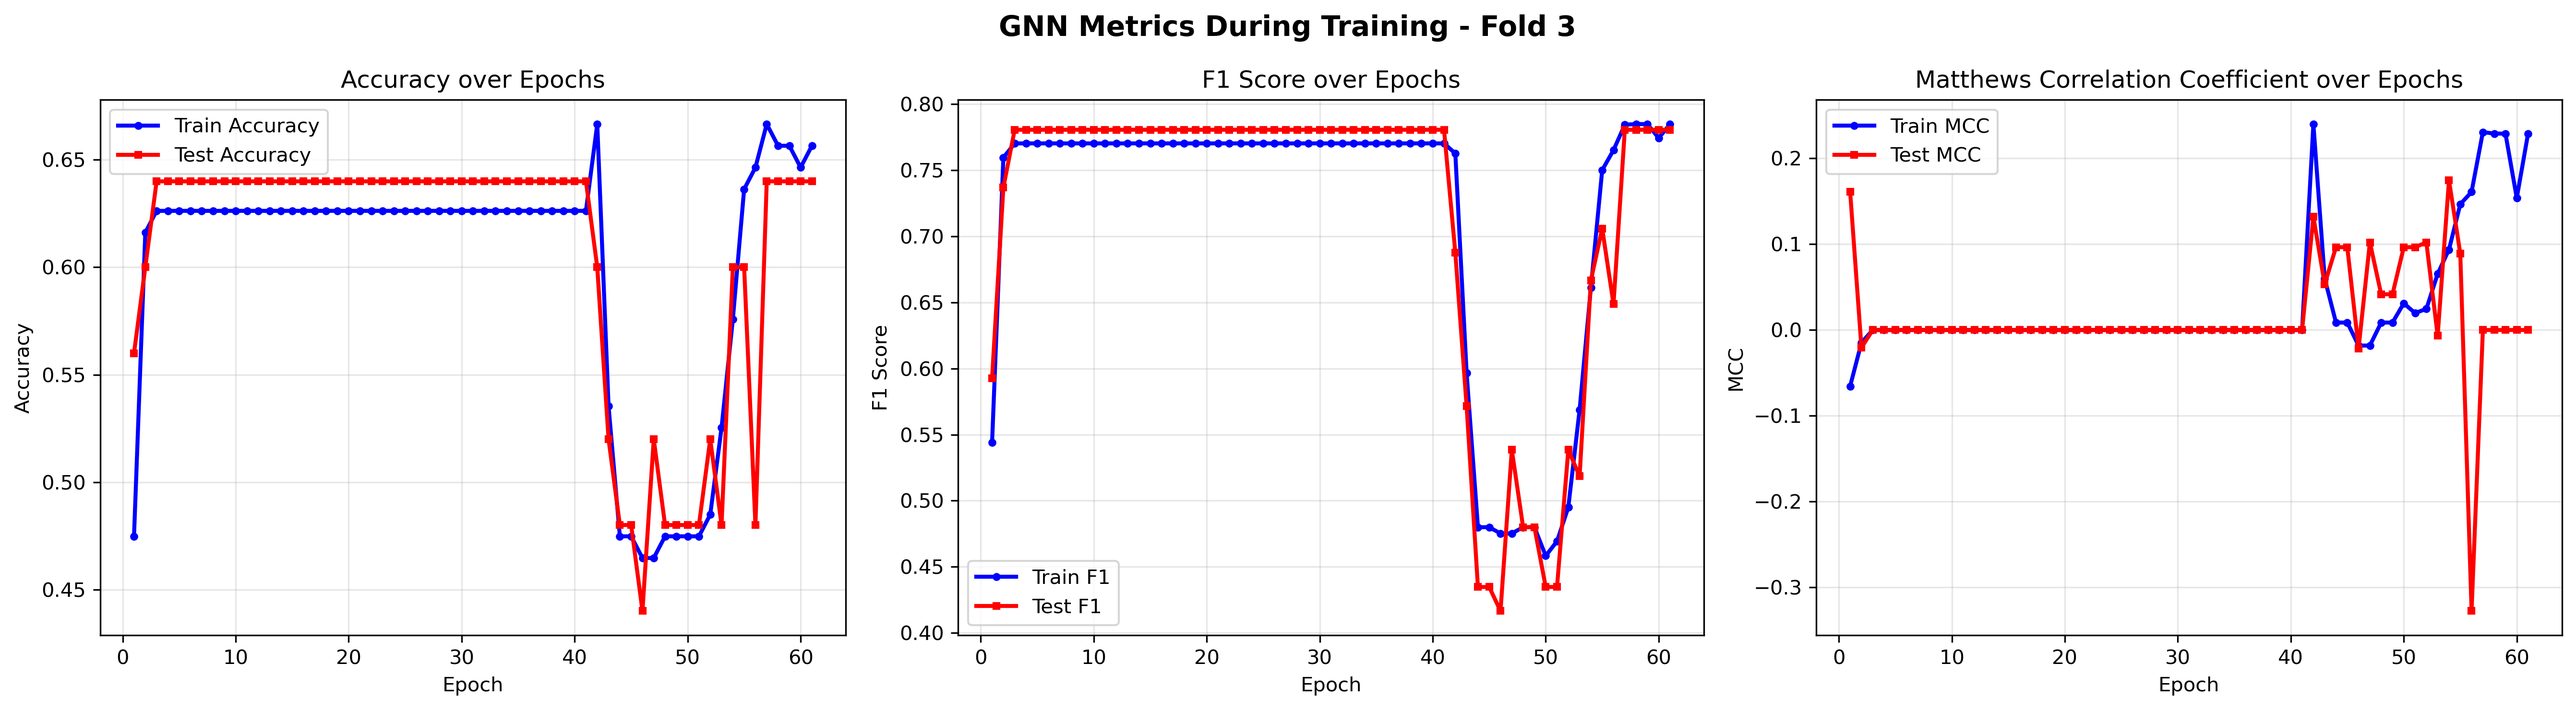
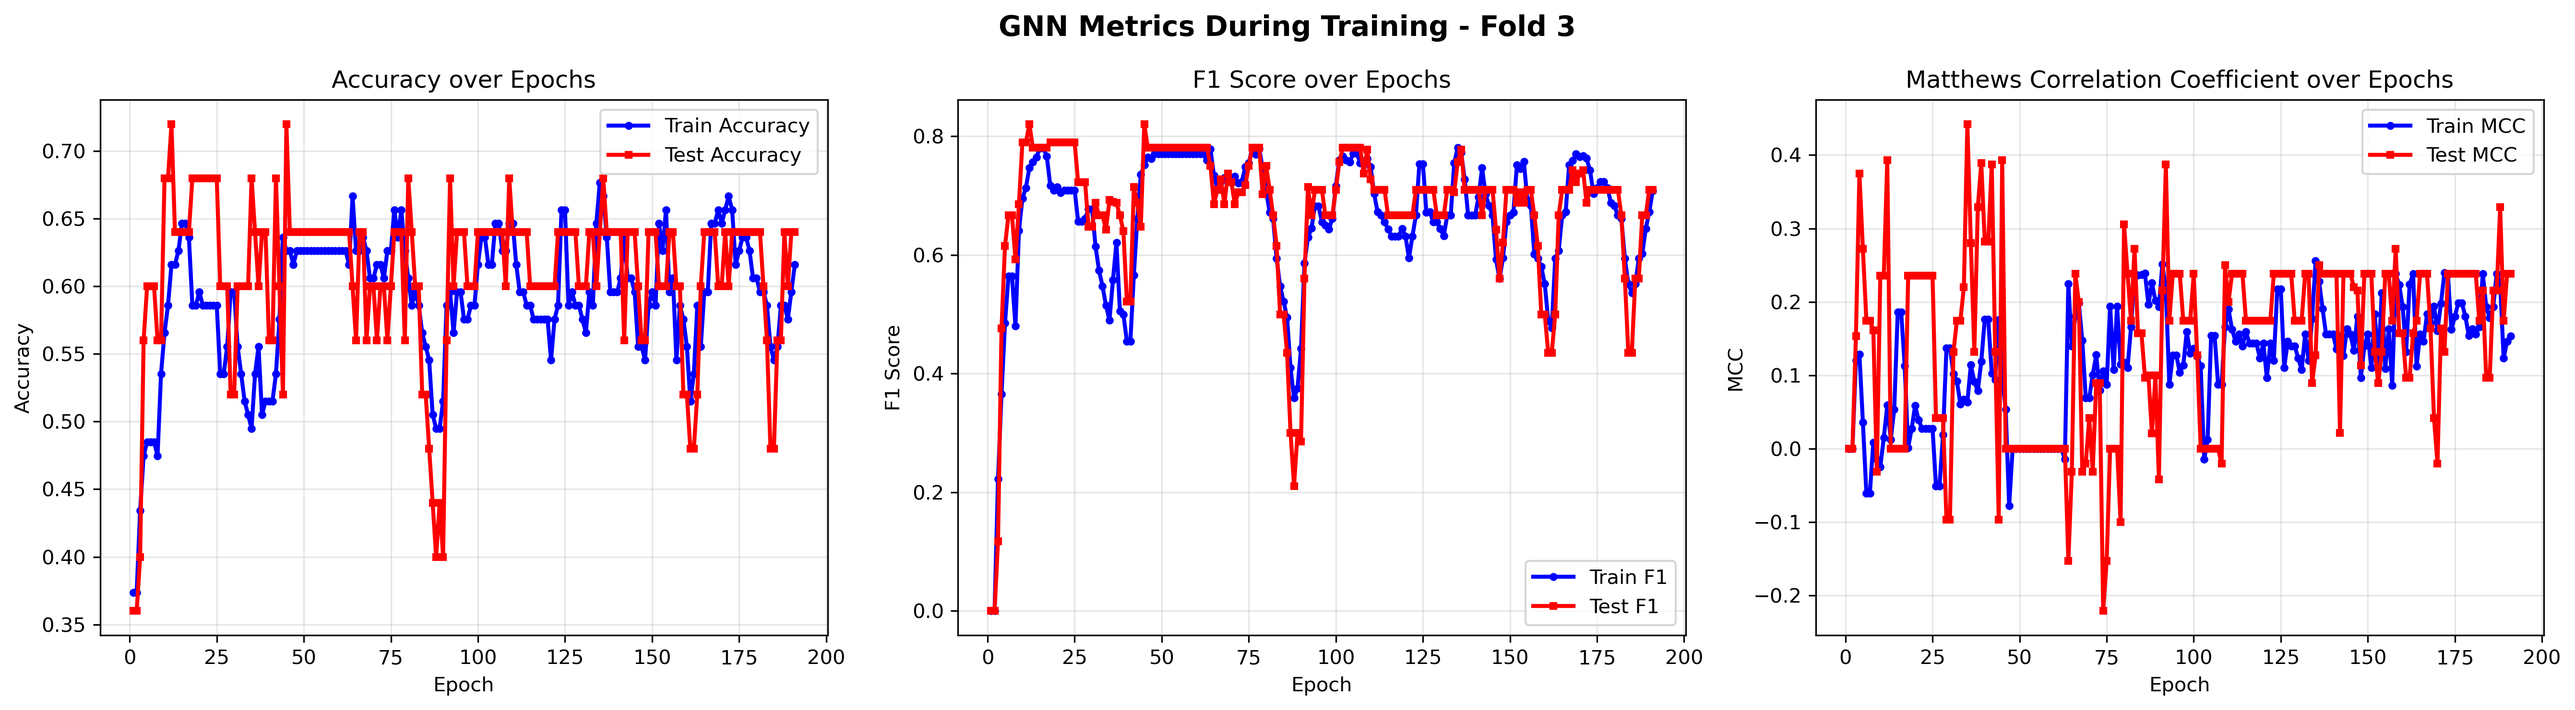
removing unnecesary code from the gnn.py

diff --git a/08-gnn.py b/08-gnn.py
@@ -282,8 +282,11 @@ def get_graph_hot_encoding_continuity(row, cols):
             if len(weights) == 0:
                 continue
             is_consecutive = 1.0 if abs(i - j) == 1 else 0.0
+            is_consecutive_vec = {1,0}
+            if is_consecutive == 0.0:
+                is_consecutive_vec = {0,1}
             avg_weight = sum(weights) / len(weights)
-            edge_attr.append([avg_weight, is_consecutive])
+            edge_attr.append(weights+[is_consecutive]) #[avg_weight, is_consecutive],
             edge_index_list.append([i, j])
 
         edge_attr = torch.tensor(edge_attr, dtype=torch.float32)
@@ -300,7 +303,7 @@ def get_graph_hot_encoding_continuity(row, cols):
             torch.tensor([d[n] for n in row['seq']], dtype=torch.long), 
             num_classes=num_classes
         ).to(torch.float32)
-
+        
         y = torch.tensor([row['is_positive']], dtype=torch.int64)
 
         graph = Data(edge_index=edge_index_symmetric, edge_attr=edge_attr_symmetric, y=y, x=x)
@@ -355,7 +358,12 @@ def train():
          out = model(data.x, data.edge_index, edge_weight, data.batch)  # Perform a single forward pass.
          #out= model(data.x, data.edge_index, data.edge_weight, data.batch)
         #  print(out)
+        #  print("??????????????????????????????")
+        #  print(data.x)
+        #  print(data.edge_index)
+        #  print(data.edge_weight)
         #  print(data.y)
+        #  print("??????????????????????????????")
          loss = criterion(out, data.y)  # Compute the loss.
         # print(loss)
          loss.backward()  # Derive gradients.
@@ -469,77 +477,6 @@ def plot_model_metrics_during_training(epoch_data, model_name, fold_number=None,
 
 
 
-
-
-
-
-
-
-
-# #MAIN
-# data = pd.read_csv("./database/database_C1'.csv", sep=',', index_col=0)
-# data= data.map(parse_point)
-# data['class'] = 1
-# data
-
-# #stems
-# d1 = pd.read_csv("./stems_database_C1'.csv", sep=',', index_col=0)
-# # for column in d1.columns[:-1]:
-# #     if d1[column].apply(lambda x: str(x).replace('.', '', 1).isdigit()).all():
-# #         d1[column] = pd.to_numeric(d1[column])
-#     #d1[column] = d1[column].apply(lambda x: np.array(list(map(float, x.split(',')))))
-# d1=d1.map(parse_point)
-# d1 = d1.reset_index(drop=True)
-
-# #hairpins
-# d2 = pd.read_csv("./hairpins_database_C1'.csv", index_col=0, sep=',')
-# # for column in d2.columns[:-1]:
-# #     if d2[column].apply(lambda x: str(x).replace('.', '', 1).isdigit()).all():
-# #         d2[column] = pd.to_numeric(d2[column])
-# #     d2[column] = d2[column].apply(lambda x: np.array(list(map(float, x.split(',')))))
-# d2=d2.map(parse_point)
-# d2 = d2.reset_index(drop=True)
-# d2
-
-# #internal loops
-# d3 = pd.read_csv("./loops_database_C1'.csv", sep=',', index_col=0)
-# # for column in d3.columns[:-1]:
-# #     if d3[column].apply(lambda x: str(x).replace('.', '', 1).isdigit()).all():
-# #         d3[column] = pd.to_numeric(d3[column])
-#     #d3[column] = d3[column].apply(lambda x: np.array(list(map(float, x.split(',')))))
-# d3=d3.map(parse_point)
-# d3 = d3.reset_index(drop=True)
-# d3
-
-# #ends
-# d4 = pd.read_csv("./ends_database_C1'.csv", sep=',', index_col=0)
-# # for column in d4.columns[:-1]:
-# #     if d4[column].apply(lambda x: str(x).replace('.', '', 1).isdigit()).all():
-# #         d4[column] = pd.to_numeric(d4[column])
-# #     d4[column] = d4[column].apply(lambda x: np.array(list(map(float, x.split(',')))))
-# d4=d4.map(parse_point)
-# d4 = d4.reset_index(drop=True)
-# d4
-
-# #mix
-# d5 = pd.read_csv("./mix_database_C1'.csv", sep=',', index_col=0)
-# # for column in d5.columns[:-1]:
-# #     if d5[column].apply(lambda x: str(x).replace('.', '', 1).isdigit()).all():
-# #         d5[column] = pd.to_numeric(d5[column])
-#     #d5[column] = d5[column].apply(lambda x: np.array(list(map(float, x.split(',')))))
-# d5=d5.map(parse_point)
-# d5 = d5.reset_index(drop=True)
-# d5
-
-# #mix_with_seqs_assigned
-# d5v2 = pd.read_csv("./mix_database_C1_v2'.csv", sep=',', index_col=0)
-# # for column in d5v2.columns[:-1]:
-# #     if d5v2[column].apply(lambda x: str(x).replace('.', '', 1).isdigit()).all():
-# #        d5v2[column] = pd.to_numeric(d5v2[column])
-#     #d5v2[column] = d5v2[column].apply(lambda x: np.array(list(map(float, x.split(',')))))
-# d5v2=d5v2.map(parse_point)
-# d5v2 = d5v2.reset_index(drop=True)
-# d5v2
 dpos = pd.read_csv("positve.csv", sep=',', index_col=None)#, index_col=0)
 
     
@@ -558,50 +495,6 @@ data_full = pd.concat([dneg, dpos])
 import csv
 seqs = []
 
-# with open("./database/database_C1'_seqs.csv", 'r') as csvfile:
-#     csvreader = csv.reader(csvfile)
-#     for row in csvreader:
-#         seqs.append(row[0])
-
-# with open("./stems_database_C1'_seqs.csv", 'r') as csvfile:
-#     csvreader = csv.reader(csvfile)
-#     for row in csvreader:
-#         seqs.append(row[0])
-
-# with open("./hairpins_database_C1'_seqs.csv", 'r') as csvfile:
-#     csvreader = csv.reader(csvfile)
-#     for row in csvreader:
-#         seqs.append(row[0])
-
-# with open("./loops_database_C1'_seqs.csv", 'r') as csvfile:
-#     csvreader = csv.reader(csvfile)
-#     for row in csvreader:
-#         seqs.append(row[0])
-
-# with open("./ends_database_C1'_seqs.csv", 'r') as csvfile:
-#     csvreader = csv.reader(csvfile)
-#     for row in csvreader:
-#         seqs.append(row[0])
-
-# with open("./mix_database_C1'_seqs_v2.csv", 'r') as csvfile:
-#     csvreader = csv.reader(csvfile)
-#     for row in csvreader:
-#         if len(seqs) == data_full.shape[0]:
-#             break
-#         seqs.append(row[0])
-# with open("positve_seq.csv", 'r') as csvfile:
-#     csvreader = csv.reader(csvfile)
-#     for row in csvreader:
-#         if len(seqs) == data_full.shape[0]:
-#             break
-#         seqs.append(row[0])
-# with open("negative_seq.csv", 'r') as csvfile:
-#     csvreader = csv.reader(csvfile)
-#     for row in csvreader:
-#         if len(seqs) == data_full.shape[0]:
-#             break
-#         seqs.append(row[0])        
-# Use shape[0] as maximum allowed
 max_len = data_full.shape[0]
 
 read_sequences("positve_seq.csv", max_len)
@@ -611,88 +504,13 @@ data_full['seq'] = seqs
 #print("DATA FULL WITH SEQS:")
 #print(data_full)
 
-
-
-
-# planar_angles_full = []
-# cols =[]
-# def is_bad(cell):
-#     return isinstance(cell, str) and (',' in cell or cell.startswith('['))
-
-# bad_cells = data_full.map(is_bad)
-# print("Bad cells:\n", bad_cells.any())  # Shows which columns have bad entries
-# print(data_full.map(lambda x: x.shape if isinstance(x, np.ndarray) else None))
-
-# for row in data_full.iloc[:, :-1].values:
-#     tmp = []
-#     for i in range(len(row) - 2):
-#         for j in range(i + 1, len(row) - 1):
-#             for k in range(j + 1, len(row)):
-#                 print(f'{row[i]} ]]] {row[j]} ]]] {row[k]} {i},{j},{k}')
-#                 tmp.append(count_planar_angle_piel(row[i], row[j], row[k]))
-#                 if len(cols) < 20:
-#                     cols.append((i, j, k))
-#     planar_angles_full.append(tmp)
-# # for row in data_full.iloc[:,:-1].iterrows():
-# #     tmp = []
-# #     for i in range(len(row[1]) - 2):
-# #         for j in range(i + 1, len(row[1]) - 1):
-# #             for k in range(j + 1, len(row[1])):
-# #                 print(f'{row[1][i]} ]]] {row[1][j]} ]]] {row[1][k]} {i} ,{j},{k}')
-# #                 tmp.append(count_planar_angle(row[1][i], row[1][j], row[1][k]))
-# #                 if len(cols) < 20:
-# #                     cols.append((i,j,k))
-# #     planar_angles_full.append(tmp)
-
-# planar_angles_full = pd.DataFrame(planar_angles_full)
-# planar_angles_full.columns=cols
-# print(planar_angles_full)
-
-
-# torsion_angles = []
-# cols=[]
-# for row in data_full.iloc[:,:-1].iterrows():
-#     tmp = []
-#     for i in range(len(row[1])-3):  
-#         for j in range(i+1, len(row[1])-2):  
-#             for k in range(j+1, len(row[1])-1):
-#                 for l in range(k+1, len(row[1])):
-#                     tmp.append(count_torsion_angle(row[1][i], row[1][j], row[1][k], row[1][l]))
-#                     if len(cols) < 15:
-#                         cols.append((i,j,k,l))
-#     # for combo in combinations(row[1], 4):
-#     #     tmp.append(count_torsion_angle(combo[0], combo[1], combo[2], combo[3]))
-#     torsion_angles.append(tmp)
-
-# torsion_angles_full = pd.DataFrame(torsion_angles)
-# torsion_angles_full.columns=cols
-
-# ### SKALOWANIE ZEBY NIE BYLO UJEMNYCH ###
-# for i in range(torsion_angles_full.shape[0]):
-#     torsion_angles_full.iloc[i] = torsion_angles_full.iloc[i].apply(lambda x: x+360 if x < 0 else x)
-    
-# print(torsion_angles_full)
-
-
-# distances_full = []
-# for row in data_full.iloc[:,:-1].iterrows():
-#     tmp = []
-#     for j in range(0,len(row[1])):
-#         for k in range(j+1, len(row[1])):
-#             tmp.append(count_euclid_dist(row[1][j], row[1][k]))
-#     distances_full.append(tmp)
-
-# distances_full = pd.DataFrame(distances_full)
-# distances_full.columns = [(j,k) for j in range(0, data.shape[1]-1) for k in range(j+1, data.shape[1]-1)]
-# print(distances_full)
-
 #CREATING THE DATAFRAME
 #CREATING THE DATAFRAME
 #CREATING THE DATAFRAME
 #CREATING THE DATAFRAME
 #CREATING THE DATAFRAME
 #CREATING THE DATAFRAME
-#df = pd.concat([planar_angles_full, torsion_angles_full, distances_full], axis=1)
+
 
 
 
@@ -982,88 +800,23 @@ test_dataset = df_graph_post.apply(lambda x: get_graph_hot_encoding_continuity(x
 test_loader = DataLoader(test_dataset, batch_size=32)
 
 gnn_fold_results = []
-#INSERT ---------------------------------------------------------------------------------------------------------
-
-# #when the dataset was not divided in two halves
-# for fold, (train_idx, test_idx) in enumerate(skf.split(df, y)):
-
-#     print(f"\n--- Fold {fold + 1}/{n_splits} ---")
-#     X_train, X_test = df.iloc[train_idx], df.iloc[test_idx]
-#     y_train, y_test = y.iloc[train_idx], y.iloc[test_idx]
-
-#     # --- Gaussian Naive Bayes ---
-#     gnb = GaussianNB()
-#     gnb.fit(X_train, y_train)
-#     y_pred_gnb = gnb.predict(X_test)
-
-#     # cv_results["GaussianNB"]["accuracy"].append(accuracy_score(y_test, y_pred_gnb))
-#     # cv_results["GaussianNB"]["precision"].append(precision_score(y_test, y_pred_gnb))
-#     # cv_results["GaussianNB"]["recall"].append(recall_score(y_test, y_pred_gnb))
-#     # cv_results["GaussianNB"]["f1"].append(f1_score(y_test, y_pred_gnb))
-
-#     # Per-epoch-like metrics for GNB (simulate as only one step per fold)
-#     gnb_metrics = {
-#         'epochs': [1],
-#         'train_acc': [accuracy_score(y_train, gnb.predict(X_train))],
-#         'test_acc': [accuracy_score(y_test, y_pred_gnb)],
-#         'train_f1': [f1_score(y_train, gnb.predict(X_train), zero_division=0)],
-#         'test_f1': [f1_score(y_test, y_pred_gnb, zero_division=0)],
-#         'train_mcc': [matthews_corrcoef(y_train, gnb.predict(X_train))],
-#         'test_mcc': [matthews_corrcoef(y_test, y_pred_gnb)]
-#     }
-#     plot_model_metrics_during_training(gnb_metrics, 'GaussianNB', fold_number=fold+1, save_path=f'gnb_metrics_fold_{fold+1}.png')
-
-#     # --- SVM (with StandardScaler per fold) ---
-#     scaler_fold = StandardScaler()
-#     X_train_scaled = scaler_fold.fit_transform(X_train)
-#     X_test_scaled = scaler_fold.transform(X_test)
-
-#     clf = svm.SVC()
-#     clf.fit(X_train_scaled, y_train)
-#     y_pred_svm = clf.predict(X_test_scaled)
-
-#     # cv_results["SVM"]["accuracy"].append(accuracy_score(y_test, y_pred_svm))
-#     # cv_results["SVM"]["precision"].append(precision_score(y_test, y_pred_svm))
-#     # cv_results["SVM"]["recall"].append(recall_score(y_test, y_pred_svm))
-#     # cv_results["SVM"]["f1"].append(f1_score(y_test, y_pred_svm))
-
-#     # Per-epoch-like metrics for SVM (simulate as only one step per fold)
-#     svm_metrics = {
-#         'epochs': [1],
-#         'train_acc': [accuracy_score(y_train, clf.predict(X_train_scaled))],
-#         'test_acc': [accuracy_score(y_test, y_pred_svm)],
-#         'train_f1': [f1_score(y_train, clf.predict(X_train_scaled), zero_division=0)],
-#         'test_f1': [f1_score(y_test, y_pred_svm, zero_division=0)],
-#         'train_mcc': [matthews_corrcoef(y_train, clf.predict(X_train_scaled))],
-#         'test_mcc': [matthews_corrcoef(y_test, y_pred_svm)]
-#     }
-#     plot_model_metrics_during_training(svm_metrics, 'SVM', fold_number=fold+1, save_path=f'svm_metrics_fold_{fold+1}.png')
-
-# # Show mean CV results
-# print("\nCross-validation results (mean over folds):")
-# for name, metrics in cv_results.items():
-#     print(f"\n{name}:")
-#     print(f"  Accuracy: {np.mean(metrics['accuracy']):.4f}")
-#     print(f"  Precision: {np.mean(metrics['precision']):.4f}")
-#     print(f"  Recall: {np.mean(metrics['recall']):.4f}")
-#     print(f"  F1: {np.mean(metrics['f1']):.4f}")
 
 # Keep standardized copy for GNN
-scaler = StandardScaler()
-df_std = pd.DataFrame(scaler.fit_transform(df))
-df_std.columns = df.columns
+# scaler = StandardScaler()
+# df_std = pd.DataFrame(scaler.fit_transform(df))
+# df_std.columns = df.columns
 
-# Build a graph-ready DataFrame (features, seq, label)
-seqs_series = pd.Series(seqs, name='seq')
-if len(seqs_series) > df_std.shape[0]:
-    seqs_series = seqs_series.iloc[: df_std.shape[0]].reset_index(drop=True)
-elif len(seqs_series) < df_std.shape[0]:
-    seqs_series = pd.Series([''] * df_std.shape[0], name='seq')
+# # Build a graph-ready DataFrame (features, seq, label)
+# seqs_series = pd.Series(seqs, name='seq')
+# if len(seqs_series) > df_std.shape[0]:
+#     seqs_series = seqs_series.iloc[: df_std.shape[0]].reset_index(drop=True)
+# elif len(seqs_series) < df_std.shape[0]:
+#     seqs_series = pd.Series([''] * df_std.shape[0], name='seq')
 
-# df_graph used later for GNN folds
-df_graph = df_std.reset_index(drop=True).copy()
-df_graph['seq'] = seqs_series
-df_graph['is_positive'] = y.reset_index(drop=True).astype(int)
+# # df_graph used later for GNN folds
+# df_graph = df_std.reset_index(drop=True).copy()
+# df_graph['seq'] = seqs_series
+# df_graph['is_positive'] = y.reset_index(drop=True).astype(int)
 
 #GAUSSIAN BAYASES  # <- single-split block removed (using StratifiedKFold above)
 # old single-split code removed (replaced with StratifiedKFold above)
@@ -1214,7 +967,7 @@ for fold, (train_idx, val_idx) in enumerate(fold_splits):
 
         print(f'Epoch: {epoch:03d}, Train Acc: {train_acc:.4f}, Test Acc: {test_acc:.4f}, Test F1: {test_f1:.4f}, Test MCC: {test_mcc:.4f}')
 
-        if no_improve_counter >= max_no_improve and epoch>60:
+        if no_improve_counter >= max_no_improve and epoch>190:
             print("Early stopping due to no improvement")
             break
 
